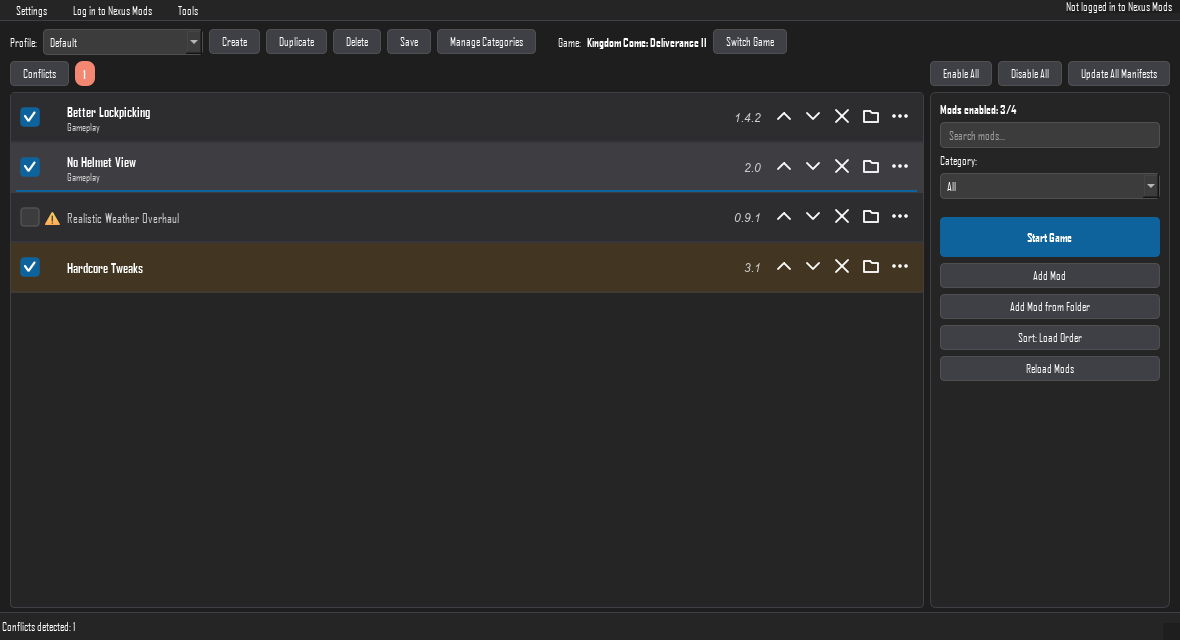
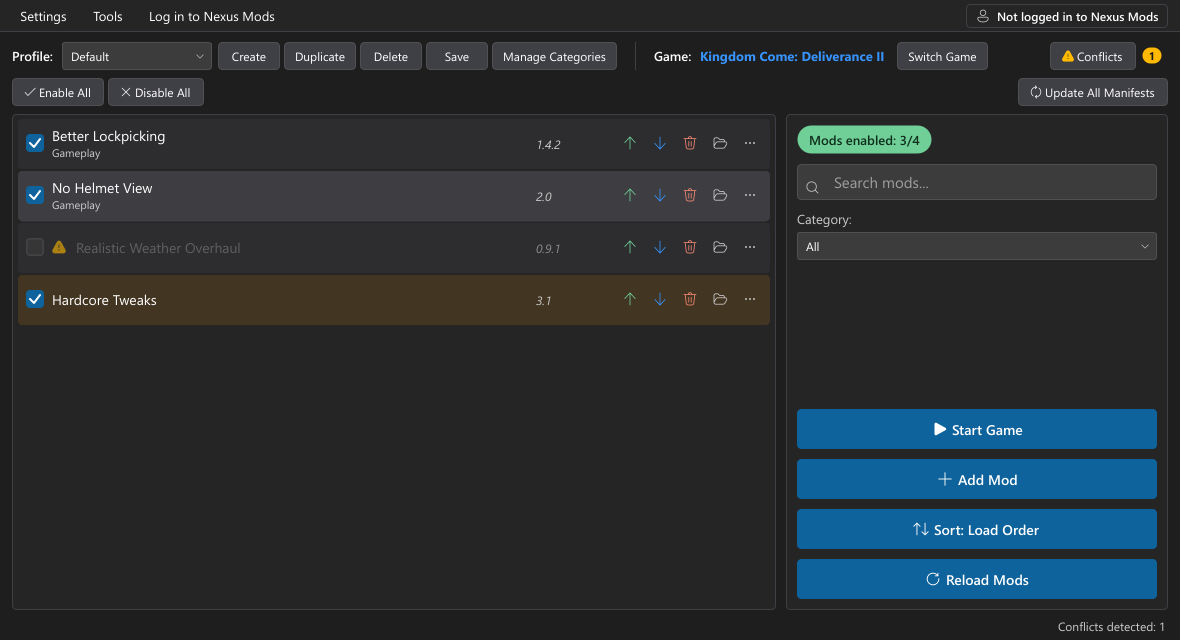
test, docs: redesign coverage and screenshots
Tests for icons, toggle switch, theme refresh, message dialog, conflicts visibility and settings navigation; the smoke script renders settings pages, dialogs and the context menu in both themes.

diff --git a/tests/ui/test_widgets.py b/tests/ui/test_widgets.py
@@ -1,0 +1,88 @@
+"""Themed widgets, icons and dialogs, driven headless."""
+
+from __future__ import annotations
+
+import pytest
+from PySide6.QtCore import Qt
+from PySide6.QtWidgets import QApplication, QPushButton
+from pytestqt.qtbot import QtBot
+
+from kcd_mod_manager.ui import icons
+from kcd_mod_manager.ui.dialogs import MessageDialog
+from kcd_mod_manager.ui.theme import LIGHT, apply_theme, current_palette
+from kcd_mod_manager.ui.widgets import IconButton, Pill, SearchBox, ToggleSwitch, refresh_theme
+
+pytestmark = pytest.mark.ui
+
+
+def test_every_bundled_icon_renders_in_any_color(qtbot: QtBot) -> None:
+    names = icons.available()
+    assert {"update", "up", "down", "delete", "folder", "more", "warning_filled"} <= set(names)
+    for name in names:
+        assert icons._SOURCE_FILL in icons.svg_data(name, icons._SOURCE_FILL).decode()
+        image = icons.pixmap(name, "#FF0000", 16, 1.0).toImage()
+        assert not image.isNull()
+        colors = {
+            image.pixelColor(x, y).name()
+            for x in range(16)
+            for y in range(16)
+            if image.pixelColor(x, y).alpha() == 255
+        }
+        assert colors <= {"#ff0000"}, name
+    with pytest.raises(KeyError):
+        icons.pixmap("does-not-exist", "#000000")
+
+
+def test_stylesheet_images_are_written_once(qtbot: QtBot) -> None:
+    first = icons.stylesheet_url("checkmark_filled", "#FFFFFF")
+    assert first == icons.stylesheet_url("checkmark_filled", "#FFFFFF")
+    assert first.endswith(".svg")
+
+
+def test_toggle_switch_toggles_and_emits(qtbot: QtBot) -> None:
+    switch = ToggleSwitch()
+    qtbot.addWidget(switch)
+    switch.show()
+    seen: list[bool] = []
+    switch.toggled.connect(seen.append)
+    qtbot.mouseClick(switch, Qt.MouseButton.LeftButton)
+    assert switch.isChecked() and seen == [True]
+    qtbot.waitUntil(lambda: switch.offset == 1.0)
+    switch.blockSignals(True)
+    switch.setChecked(False)
+    switch.blockSignals(False)
+    switch.grab()
+    assert switch.offset == 0.0 and seen == [True]
+    assert switch.sizeHint().width() == ToggleSwitch.WIDTH
+
+
+def test_theme_switch_refreshes_icons_and_badges(qtbot: QtBot) -> None:
+    app = QApplication.instance()
+    assert isinstance(app, QApplication)
+    apply_theme(app, False)
+    button = IconButton("delete", "error")
+    pill = Pill("3/4", "success")
+    search = SearchBox("Search")
+    for widget in (button, pill, search):
+        qtbot.addWidget(widget)
+    assert current_palette() is LIGHT
+    assert pill.sizeHint().width() > pill.sizeHint().height()
+    search.setText("x")
+    assert search.clear_action.isVisible()
+    search.clear_action.trigger()
+    assert search.text() == "" and not search.clear_action.isVisible()
+    apply_theme(app, True)
+    refresh_theme(button)
+    assert current_palette().error != LIGHT.error
+    assert not button.icon().isNull()
+    pill.grab()
+    apply_theme(app, False)
+
+
+def test_message_dialog_reports_clicked_button(qtbot: QtBot) -> None:
+    dialog = MessageDialog(None, "question", "Title", "Proceed?", ("YesButton", "NoButton"))
+    qtbot.addWidget(dialog)
+    buttons = dialog.findChildren(QPushButton)
+    assert [b.objectName() for b in buttons] == ["dialogPrimary", ""]
+    buttons[1].click()
+    assert dialog.clicked_index == 1

diff --git a/scripts/smoke_screenshot.py b/scripts/smoke_screenshot.py
@@ -91,13 +91,68 @@ def main() -> int:
     window.refresh_view()
     app.processEvents()
 
+    from kcd_mod_manager.i18n import tr
+    from kcd_mod_manager.ui.dialogs import ConflictDialog, GameSelectionDialog, MessageDialog
+    from kcd_mod_manager.ui.settings_dialog import SettingsDialog, SettingsHooks
+
+    def save(widget: object, name: str, theme: str) -> None:
+        app.processEvents()
+        target = out / f"{name}-{theme}.png"
+        widget.grab().save(str(target))  # type: ignore[attr-defined]
+        print(target)
+
+    def show_and_save(widget: object, name: str, theme: str) -> None:
+        widget.show()  # type: ignore[attr-defined]
+        save(widget, name, theme)
+        widget.close()  # type: ignore[attr-defined]
+
+    hooks = SettingsHooks(
+        save=lambda: None,
+        theme_changed=lambda _d: None,
+        mod_order_changed=lambda _e: True,
+        set_executable=lambda g, p: ctx.session.set_manual_install(g, p),
+        ignored_mods=lambda: ctx.session.mods[:1],
+        unignore=lambda _m: None,
+        create_backup=lambda: None,
+        language_changed=lambda _l: None,
+        view_changed=lambda: None,
+        open_backups=lambda: None,
+    )
     for dark in (False, True):
+        theme = "dark" if dark else "light"
         ctx.settings.is_dark_mode = dark
         window.apply_theme()
-        app.processEvents()
-        target = out / f"main-window-{'dark' if dark else 'light'}.png"
-        window.grab().save(str(target))
-        print(target)
+        save(window, "main-window", theme)
+
+        settings = SettingsDialog(window, ctx.settings, dict(ctx.session.installs), hooks)
+        settings.show()
+        for page in ("general", "backups", "conflicts"):
+            settings.show_page(page)
+            save(settings, f"settings-{page}", theme)
+        settings.close()
+
+        show_and_save(
+            GameSelectionDialog(window, dict(ctx.session.installs), ctx.session.set_manual_install),
+            "game-selection",
+            theme,
+        )
+        names = {m.id: m.name for m in ctx.session.mods}
+        show_and_save(ConflictDialog(window, ctx.session.conflicts, names, set()), "conflicts", theme)
+        show_and_save(
+            MessageDialog(
+                window,
+                "question",
+                tr("DialogTitleQuestion"),
+                tr("DeleteProfileConfirm", "Default"),
+                ["YesButton", "NoButton"],
+            ),
+            "message",
+            theme,
+        )
+        menu = window._mod_menu(ctx.session.mods[0])
+        menu.popup(window.mapToGlobal(window.rect().center()))
+        save(menu, "context-menu", theme)
+        menu.close()
     window.close()
     session = ctx.session
     print(f"mods={len(session.mods)} conflicts={len(session.conflicts)} profile={session.selected_profile}")

diff --git a/tests/ui/test_main_window.py b/tests/ui/test_main_window.py
@@ -76,7 +76,18 @@ def test_startup_loads_mods_profile_and_conflicts(window: MainWindow, game_root:
     assert window.enabled_label.text().endswith("/3")
     assert len(window.session.conflicts) == 1
     assert window.conflict_badge.text() == "1"
+    assert window.conflicts_box.isVisibleTo(window)
+    assert not window.category_row.isVisibleTo(window)
     window.list_view.viewport().grab()  # exercises the delegate painting
+
+
+def test_conflicts_button_only_shown_with_conflicts(window: MainWindow) -> None:
+    window.session.conflicts = []
+    window.refresh_view()
+    assert not window.conflicts_box.isVisibleTo(window)
+    window.session.create_category("Gameplay")
+    window.refresh_view()
+    assert window.category_row.isVisibleTo(window)
 
 
 def test_toggle_and_enable_all_persist_order_file(window: MainWindow, game_root: Path) -> None:
@@ -184,6 +195,28 @@ def test_settings_dialog_applies_changes(qtbot: QtBot, window: MainWindow, game_
     dialog.launch_args.editingFinished.emit()
     stored = window.ctx.session.settings_store.load()
     assert stored.is_dark_mode and stored.game_launch_args == "-devmode"
+
+
+def test_settings_pages_navigate(qtbot: QtBot, window: MainWindow) -> None:
+    dialog = SettingsDialog(window, window.settings, window.session.installs, hooks=window_hooks(window))
+    qtbot.addWidget(dialog)
+    assert len(dialog.page_titles()) == len(SettingsDialog.PAGES) == 6
+    dialog.show_page("backups")
+    assert dialog.pages.currentIndex() == 5
+    dialog.nav.setCurrentRow(1)
+    assert dialog.pages.currentIndex() == 1
+    assert set(dialog.toggles) >= {"is_dark_mode", "mod_order_enabled", "create_backup"}
+    dialog.grab()
+
+
+def test_mod_order_toggle_reverts_when_apply_fails(qtbot: QtBot, window: MainWindow) -> None:
+    hooks = window_hooks(window)
+    hooks.mod_order_changed = lambda _enabled: False
+    dialog = SettingsDialog(window, window.settings, window.session.installs, hooks=hooks)
+    qtbot.addWidget(dialog)
+    dialog.toggles["mod_order_enabled"].setChecked(False)
+    assert window.settings.mod_order_enabled
+    assert dialog.toggles["mod_order_enabled"].isChecked()
 
 
 def window_hooks(window: MainWindow):  # type: ignore[no-untyped-def]

diff --git a/docs/ARCHITECTURE.md b/docs/ARCHITECTURE.md
@@ -37,6 +37,10 @@ future CLI) can use the same wiring.
 | `application/library.py` | loading mods, installing/updating/deleting, backups |
 | `ui/main_window.py` | main window, menus, row actions, startup flow |
 | `ui/mod_list.py` | `ModListModel` (drag & drop) and the painted `ModDelegate` |
+| `ui/theme.py` | light/dark palettes (values from the WPF theme dictionaries) and the QSS |
+| `ui/icons.py` | bundled Fluent UI System Icons (MIT, `resources/icons`) recoloured per theme |
+| `ui/widgets.py` | WPF-style controls: toggle switch, icon buttons, pills, search box, rounded menus |
+| `ui/settings_dialog.py`, `ui/dialogs.py` | settings window (sidebar pages) and the other dialogs |
 | `ui/tasks.py` | `TaskRunner` (serial pool for mutations, parallel pool for network/scans), `GuiInvoker` |
 | `i18n.py` | JSON translations converted from the original `.resx` files |
 

diff --git a/README.md b/README.md
@@ -6,6 +6,10 @@ in Python + PySide6 and works with the same data (profiles, categories, notes, l
 
 ![Main window (light)](docs/screenshots/main-window-light.png)
 
+| Dark theme | Settings |
+| --- | --- |
+| ![Main window (dark)](docs/screenshots/main-window-dark.png) | ![Settings](docs/screenshots/settings-general-light.png) |
+
 ## Features
 
 - Detects both games (Steam libraries, GOG, common install paths, or a manually chosen
@@ -94,3 +98,7 @@ See [docs/ARCHITECTURE.md](docs/ARCHITECTURE.md).
 ## License
 
 GPL-3.0-only, the same as the original project. See [LICENSE](LICENSE).
+
+The interface icons are from Microsoft's
+[Fluent UI System Icons](https://github.com/microsoft/fluentui-system-icons) (MIT, see
+[`src/kcd_mod_manager/resources/icons/LICENSE`](src/kcd_mod_manager/resources/icons/LICENSE)).
